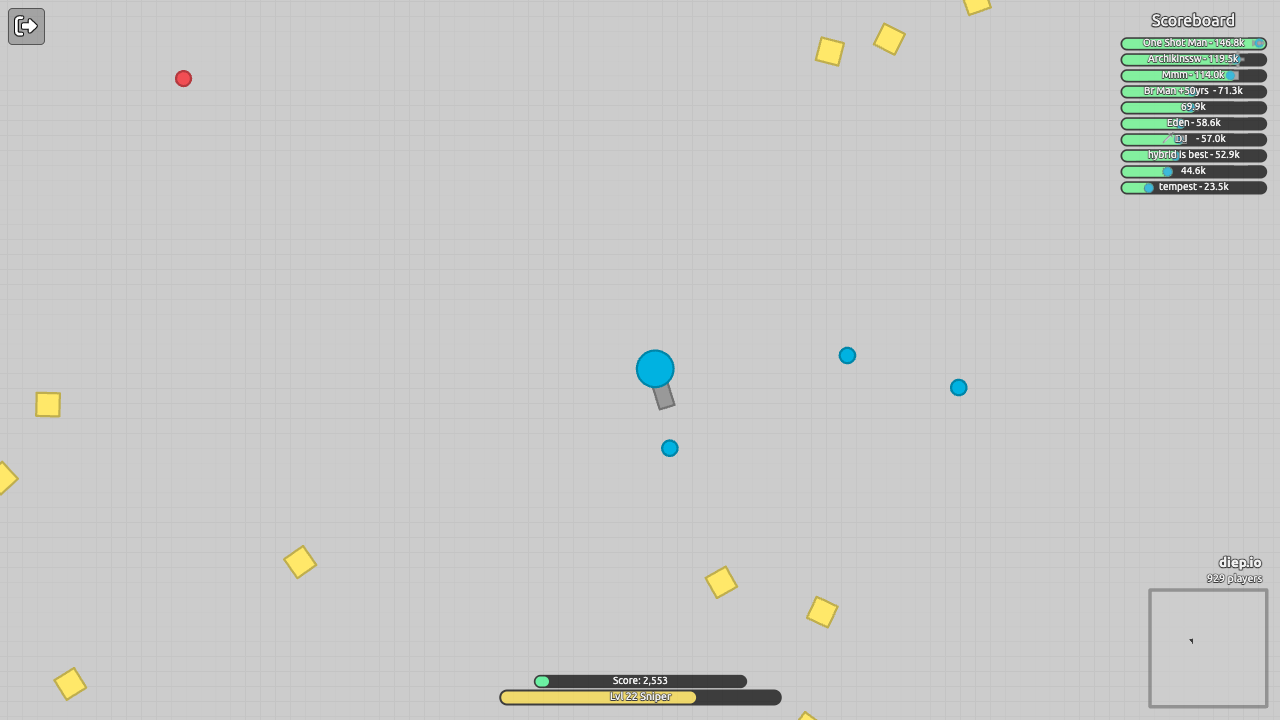
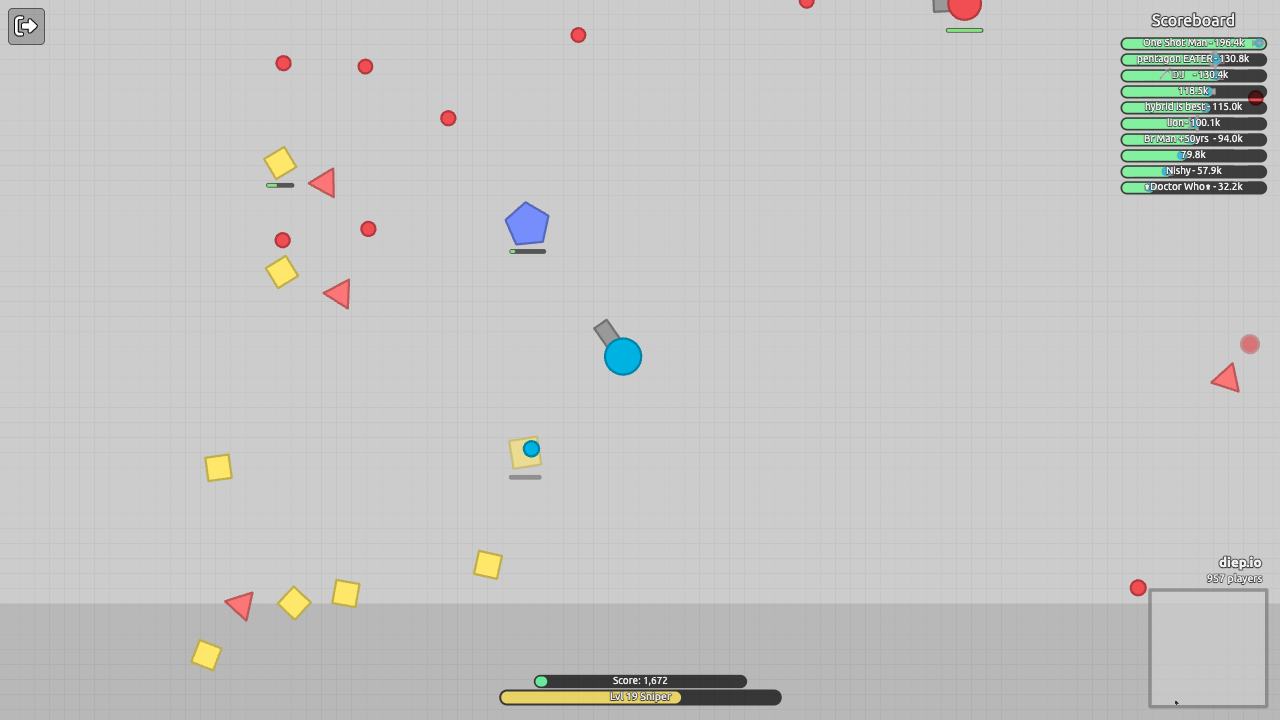
Shift extension + batch runner; DEVLOG 010 (first live Overseer, v11 sweeps metrics)
- runner: never kill a live run at the shift timer; extend until the life ends (4x cap),
  record the final death without respawning
- scripts/batch.sh: N consecutive shifts + summary for unattended grinding
- v11 results: 0.33 deaths/min, avg life 142s, best 361s, L30 Overseer live, 6,777 score

diff --git a/DEVLOG.md b/DEVLOG.md
@@ -2,6 +2,23 @@
 
 Newest entries at the top.
 
+## 010 - 2026-06-12 - First live Overseer; velocity dodge pays off; v11 sweeps the metrics
+
+Milestone shift (v11, 12 minutes): the bot reached **level 30 on live FFA and upgraded itself to Overseer mid-game**, drones active, finishing that life at **6 minutes alive, 6,787 score**. It died to "hybrid is best", a 103k Hybrid at rank 4 on the scoreboard, a top-10 heavyweight running down a mid-game tank 15x smaller. Nothing to fight there; the counter is seeing heavies earlier and positioning smarter.
+
+What shipped this round:
+- **Velocity tracking** (perception): frame-to-frame entity matching attaches vx/vy to bullets and enemies. ~60fps differencing, nearest-match with per-type jump caps.
+- **Bullet dodge** (brain): for any enemy bullet aimed at us (cos > 0.8) inside 280px whose predicted miss distance is under 60px, sidestep perpendicular to its flight path, on the side we're already on. ETA-prioritized when several qualify. Telemetry shows `escape+dodge` firing in combat.
+- **Anticipatory escape**: foes ranked by effective distance (real distance minus closing speed x ~0.37s), so fast approachers trigger flight earlier than their raw distance would.
+- **Map awareness** (v12, next batch): minimap arrow -> normalized map position; wander replaced by corner-anchor patrol (quieter than the contested center); escape penalizes fleeing into a wall we're hugging.
+- **Shift extension** (runner): a shift no longer kills a live run at the timer; it extends until the current life ends naturally (hard cap 4x). The Overseer life ran right up to this shift's fixed 720s wall under the old code; never again.
+- **Campaign analytics** (`analysis/summary.mjs`): per-shift and per-doctrine tables from telemetry.
+
+Doctrine scoreboard (deaths/min | avg life | best life | max level | best score):
+v9 0.40 | 98s | 213s | 29 | 5,630 -> v11 **0.33 | 142s | 361s | 30 | 6,777**. v11 is the best on every axis.
+
+Next: long unattended batches with v12, then study what kills Overseers specifically (drone screening? heavies?) and tune the drone game (drone stats, defensive drone wall while fleeing).
+
 ## 009 - 2026-06-12 - The 2-second "deaths" were fake; faster farming + drone control
 
 Big correction: every real death was being followed by a logged ~2s "death", and a screenshot proved why - that second death's frame is the **menu/spawn screen**, not an in-arena death. The respawn flow pressed Enter once, often landed on the menu, and the main loop counted the 1.5s of menu time as another death before the real respawn completed. So the bot has been surviving meaningfully better than the death counts implied, and "respawn into danger" was largely a phantom.